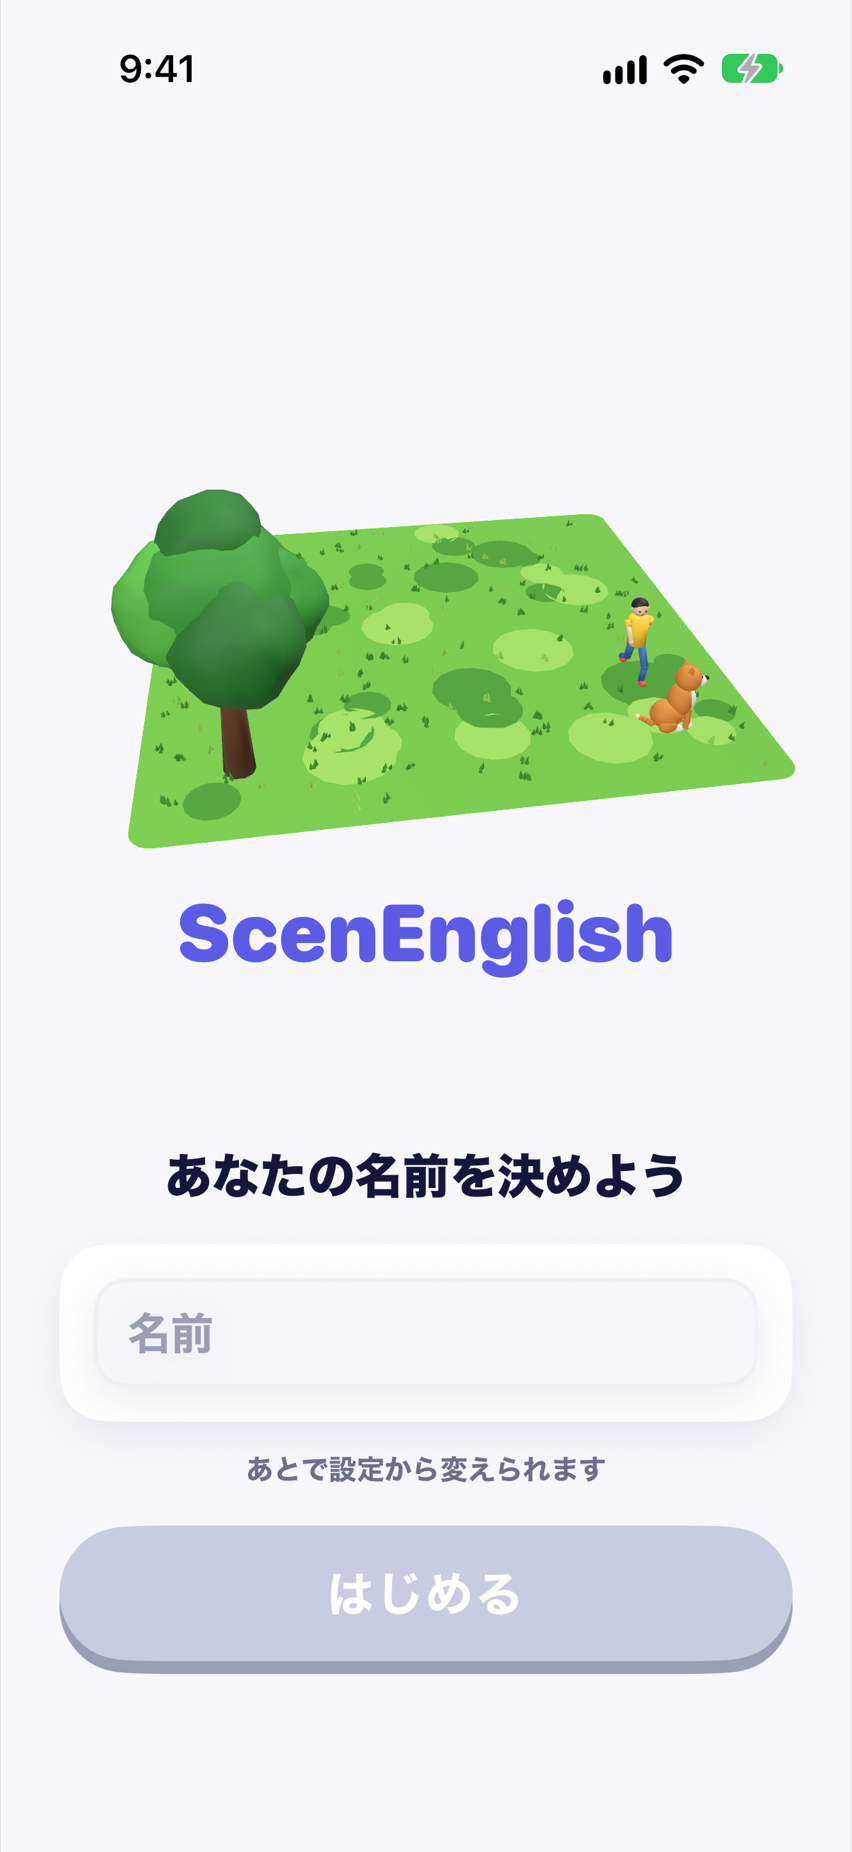
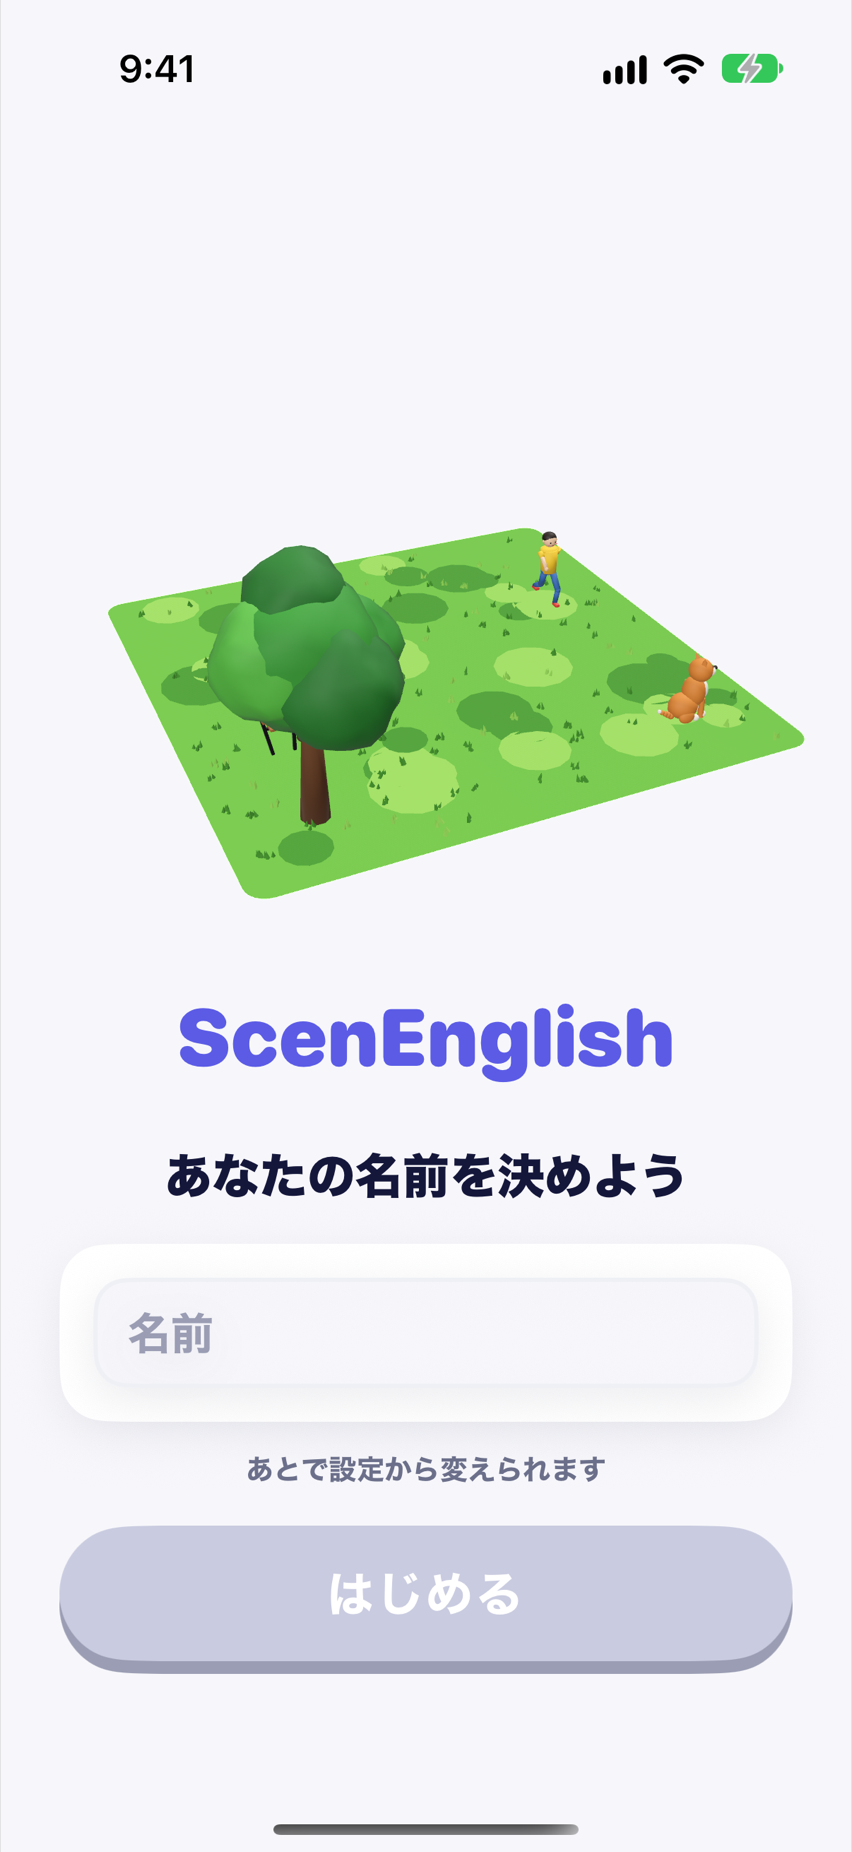
fix(ios): ホームの 3D が枠で切れないようにし、タイトルを下げる
- 場面が回って斜めになると手前の角がジオラマの枠の下にはみ出し、枠の外は描かれないので水平に切れていた。
  枠を 270pt から 340pt に高くし、カメラを 4.2 から 5.3 に離して、場面の大きさ（画面の幅の 8 割ほど）は保ったまま、
  どの向きでも角が枠に収まるようにする。広げた枠の下の余裕が、タイトルとの間の余白になる
- 名前を打っている間は歯車の行と下の余白を詰め、ジオラマをさらに縮めて、iPhone SE でも「はじめる」が
  キーボードに隠れないようにする。タイトルと下のボタンの間は小さい画面でも 28pt 空ける
- home.md・first.md に書き、0-first・1-home の画像を撮り直す

Claude-Session: https://claude.ai/code/session_01N5AffQ8pPCSA87nCdgWcsz

Changed region(s): [[0.1221, 0.2462, 0.946, 0.5848], [0.3052, 0.9849, 0.6714, 1.0]]

diff --git a/ios/NG2622/Room/HomeView.swift b/ios/NG2622/Room/HomeView.swift
@@ -17,22 +17,29 @@ struct HomeView: View {
 
   /// 歯車の行の高さ（上の余白 8 と丸いボタン 44 と下 8）
   private static let gearRow: CGFloat = 60
-  /// ジオラマの枠の高さ（いちばん大きいとき）。キーボードが出たときなどは縮む
-  private static let sceneHeight: CGFloat = 270
+  /// ジオラマの枠の高さ（いちばん大きいとき）。キーボードが出たときなどは縮む。
+  /// 場面は枠の下寄りに描かれ、回って斜めになると手前の角が下に伸びるので、角が枠の下で切れないだけの余裕を取る
+  /// （枠の外は描かれないため）。下の余裕は、そのままタイトルとの間の余白にもなる
+  private static let sceneHeight: CGFloat = 340
+  /// カメラから場面の中心までの距離。縦の画角が決まっているので、場面の大きさは「枠の高さ / 距離」で決まる。
+  /// 枠を高くしたぶん離して、場面を画面の幅の 8 割ほどに保つ（枠が縮むと、場面も同じ比で縮むので切れない）
+  private static let sceneDistance: Float = 5.3
 
   @FocusState private var editing: Bool
 
   var body: some View {
     VStack(spacing: 0) {
-      Color.clear.frame(height: Self.gearRow)
+      // 名前を打っている間（キーボードが出ている間）は、歯車の行と下の余白を詰め、ジオラマをさらに縮めて、
+      // 小さい画面でも「はじめる」がキーボードに隠れないようにする（最初の画面には歯車を出さない）
+      Color.clear.frame(height: editing ? 0 : Self.gearRow)
       // ジオラマとタイトルのまとまりは、歯車の行と下のボタンの間の空きに置き、見た目の重心を少し上にする
       // （見た目の空きが上 2 : 下 3 ほど。docs/design/ui/screens/home.md）。場面はジオラマの枠の下寄りに描かれ、
       // 枠の上に場面の無い所があるので、空き（Spacer）は上 1 : 下 4 で分ける
       Spacer(minLength: 0)
-      // 枠の高さとカメラの近さで、ジオラマが画面の幅の 8 割ほどになるようにする（回って斜めになると少し広がる）
-      SpinningScene(distance: 4.2)
+      // 枠の高さとカメラの距離で、ジオラマが画面の幅の 8 割ほどになるようにする（回って斜めになると少し広がる）
+      SpinningScene(distance: Self.sceneDistance)
         .unmountedWhileCovered(isCovered)
-        .frame(maxWidth: .infinity, minHeight: 120, maxHeight: Self.sceneHeight)
+        .frame(maxWidth: .infinity, minHeight: editing ? 64 : 120, maxHeight: Self.sceneHeight)
         .layoutPriority(1)
         .contentShape(Rectangle())
         .onTapGesture { editing = false }
@@ -40,7 +47,8 @@ struct HomeView: View {
         .font(Theme.font(38, .black))
         .foregroundStyle(Theme.accent)
         .padding(.top, 6)
-      Spacer(minLength: 16)
+      // タイトルと下のボタンの間は、小さい画面でも詰まりすぎないよう、少しは空ける
+      Spacer(minLength: editing ? 8 : 28)
       ForEach(0..<3, id: \.self) { _ in Spacer(minLength: 0) }
       ZStack(alignment: .bottom) {
         if profile.needsName {
@@ -53,7 +61,7 @@ struct HomeView: View {
       }
       .frame(width: 346)
       .animation(.easeInOut(duration: 0.3), value: profile.needsName)
-      .padding(.bottom, 56)
+      .padding(.bottom, editing ? 8 : 56)
     }
     .frame(maxWidth: .infinity)
     .overlay(alignment: .topTrailing) {

diff --git a/docs/design/ui/screens/home.md b/docs/design/ui/screens/home.md
@@ -45,5 +45,11 @@ exits = [
 
 - 大きなジオラマ（画面の幅の 8 割ほど）、その下に「ScenEnglish」、下の方（親指の届く所）に「あそぶ」（紫の塗り）と「きろく」（枠だけ）を、同じ大きさ・同じ幅で縦に並べる。右上の設定の歯車は今のまま。
 - 「きろく」は文字だけにする（「これまでの N 回」と時計のアイコンは外す）。記録が 0 件でも同じ形で出し、押すときろくの 0 件の画面が開く。
-- ジオラマとタイトルのまとまりは、歯車の行と下のボタンのあいだの空きに、上 2 : 下 3 で置く（見た目の重心が少し上に来るように）。ジオラマとタイトルの間は狭くする。キーボードが出たときなどは、ジオラマが縮む。
+- ジオラマとタイトルのまとまりは、歯車の行と下のボタンのあいだの空きに、上 2 : 下 3 で置く（見た目の重心が少し上に来るように）。ジオラマとタイトルの間は狭くする（下の 2026-11-13 の実機の確認で、間に余白を置くように直した）。キーボードが出たときなどは、ジオラマが縮む。
 - 待合の「他のルーム」で入れなかったときにホームに戻って出していた知らせ（「入れませんでした（満員）」）は無くした。入れないときは今の待合のまま、シートに理由を出す（[`join.md`](./join.md)）。
+
+（2026-11-13 の実機の確認で直した）
+
+- 場面が回って斜めになると、手前の角がジオラマの枠の下にはみ出し、枠の外が描かれないので水平に切れて見えていた（タイトルの白い地が被っているように見えた）。枠を高くし（270pt → 340pt）、そのぶんカメラを離して（距離 4.2 → 5.3）、場面の大きさ（画面の幅の 8 割ほど）は変えずに、どの向きでも角が枠に収まるようにした。枠が縮むとき（小さい画面・キーボードが出たとき）は、場面も同じ比で縮むので切れない。
+- タイトル「ScenEnglish」は少し下げ、場面との間に余白を置く。広げた枠の下の余裕がそのまま余白になる（iPhone 17 で、場面のいちばん下からタイトルまで、斜めのとき 40pt ほど、正面に近いとき 70pt ほど）。最初の画面も同じ。
+- 最初の画面で名前を打っている間（キーボードが出ている間）は、歯車の行（最初の画面では歯車は出さない）と下の余白を詰め、ジオラマをさらに縮めて、小さい画面（iPhone SE 3rd）でも「はじめる」がキーボードに隠れないようにする。タイトルと下のボタンの間は、小さい画面でも 28pt は空ける。

diff --git a/docs/design/ui/screens/first.md b/docs/design/ui/screens/first.md
@@ -34,4 +34,4 @@ exits = [
 - 色は、選べる 6 色から自動で決める。名前と色は、設定の「あなた」の板（名前の欄と 6 色の丸）で変える。
 - 「はじめる」を押すと、名前と色を端末に保存し、ホームになる。最初の画面とホームは同じ view で、ジオラマとタイトルはそのまま、下の欄だけが「あそぶ」ときろくに替わる。3D を作り直さないため（3D の入った view を画面の切り替えと同時に出し入れすると、描かれなくなることがある。[`records.md`](./records.md)）。右上の設定の歯車は、ホームになってから出す。
 - 機能の案内（オンボーディング）は作らない。
-- 並びと位置は、ホームの案 B（2026-11-13）にそろえる。大きなジオラマの下に「ScenEnglish」、下の方に「あなたの名前を決めよう」・名前の欄・「あとで設定から変えられます」・「はじめる」。下の欄がホームのボタンより高いぶん、ジオラマとタイトルは少し上に寄る。名前を打つ間（キーボードが出ている間）は、ジオラマが縮む。
+- 並びと位置は、ホームの案 B（2026-11-13）にそろえる。大きなジオラマの下に「ScenEnglish」、下の方に「あなたの名前を決めよう」・名前の欄・「あとで設定から変えられます」・「はじめる」。下の欄がホームのボタンより高いぶん、ジオラマとタイトルは少し上に寄る。名前を打つ間（キーボードが出ている間）は、ジオラマが縮み、上と下の余白も詰めて、小さい画面でも「はじめる」がキーボードに隠れないようにする（2026-11-13。[`home.md`](./home.md)）。
